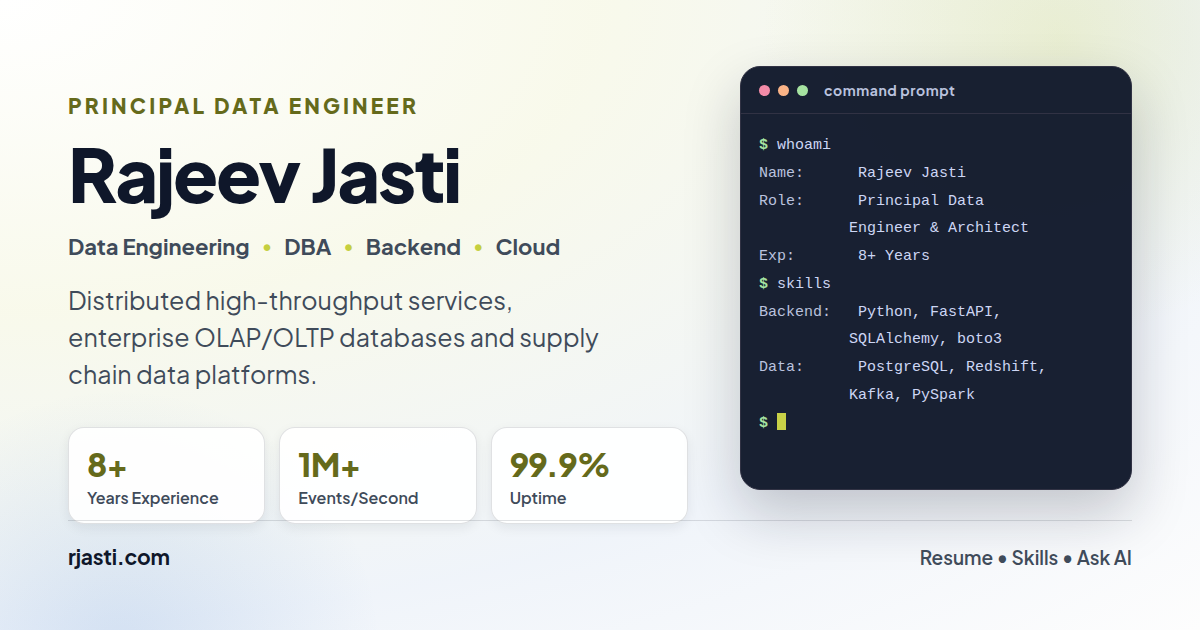
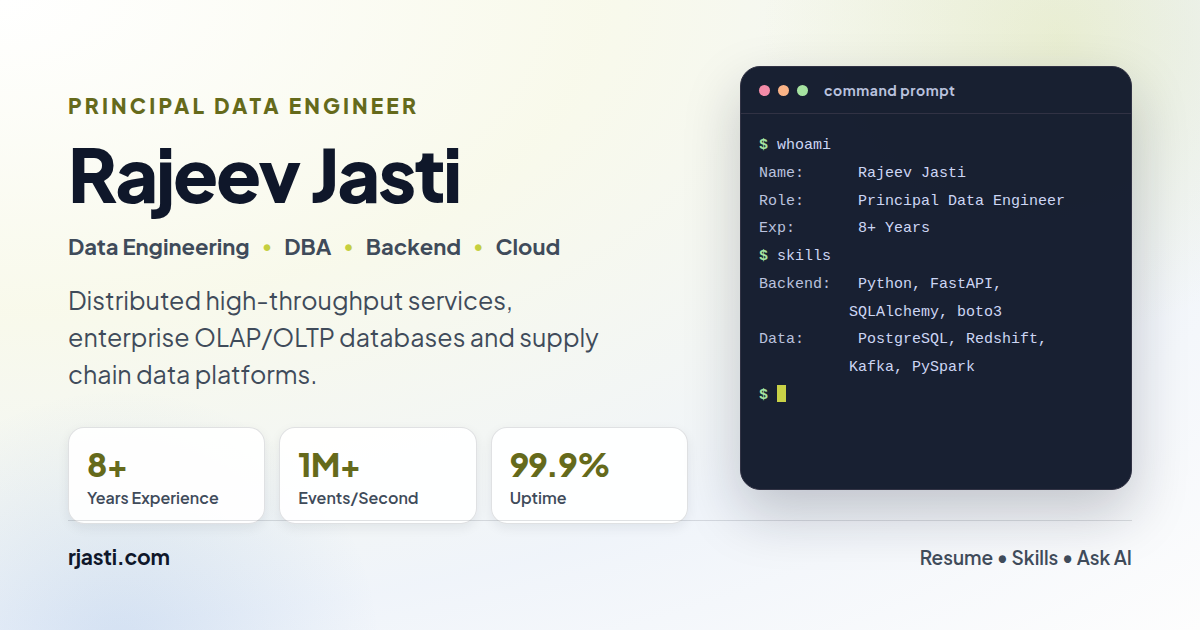
Match the floating chat toggle to the scroll-to-top button (#227)
* Match the floating chat toggle to the scroll-to-top button

The two are the site's only floating round buttons and they occupy
opposite bottom corners at the same time, so a flat citron .chat-toggle-btn
facing .scroll-to-top's citron-to-blue gradient read as two unrelated
controls rather than one pair.

Take the gradient, the hover gradient and the transition property
(`background`, not `background-color` - a gradient is not a colour) from
the .scroll-to-top rule. --on-accent ink is unchanged and stays legible:
11.2:1 on the citron end, 4.9:1 on the blue one, against the 3:1 a glyph
this size needs.

Refresh the styles.css line/token figure in .claude/rules/navigation.md.

Claude-Session: https://claude.ai/code/session_014y7AYGoB7US5WVuVMQVKgd

* Drop "& Architect" from the job title and rewrite the share description

The Open Graph card shared as "Rajeev Jasti | Principal Data Engineer &
Architect". Shorten the title to "Principal Data Engineer" everywhere it
appears as a job title, and replace the og/twitter description.

Title, across every surface that renders it:
  - frontend/index.html    og:title, twitter:title, <title>, meta description,
                           and the AI page's suggestion chip
  - content/resume.json    person.jobTitle, person.description, site.pageName,
                           site.description and the persona summary, which
                           regenerates the JSON-LD @graph and the Bedrock
[…]

diff --git a/frontend/index.html b/frontend/index.html
@@ -10,13 +10,13 @@
   <meta name="author" content="Rajeev Jasti" />
   <meta name="theme-color" content="#C5CF3F" />
   <meta name="description"
-    content="Portfolio of Rajeev Jasti, Principal Data Engineer &amp; Architect specializing in enterprise data platforms, backend services, and AI-enabled web applications." />
+    content="Portfolio of Rajeev Jasti, Principal Data Engineer specializing in enterprise data platforms, backend services, and AI-enabled web applications." />
   <link rel="canonical" href="https://rjasti.com/" />
   <meta property="og:locale" content="en_US" />
   <meta property="og:site_name" content="Rajeev Jasti" />
-  <meta property="og:title" content="Rajeev Jasti | Principal Data Engineer &amp; Architect" />
+  <meta property="og:title" content="Rajeev Jasti | Principal Data Engineer" />
   <meta property="og:description"
-    content="Transforming enterprise systems into scalable data platforms, backend services, and AI-enabled web applications." />
+    content="High-throughput data pipelines, enterprise OLTP/OLAP databases, and the async Python APIs that run on them." />
   <meta property="og:image" content="https://rjasti.com/social-preview.png" />
   <meta property="og:image:secure_url" content="https://rjasti.com/social-preview.png" />
   <meta property="og:image:type" content="image/png" />
@@ -26,12 +26,12 @@
   <meta property="og:url" content="https://rjasti.com/" />
   <meta property="og:type" content="website" />
   <meta name="twitter:card" content="summary_large_image" />
-  <meta name="twitter:title" content="Rajeev Jasti | Principal Data Engineer &amp; Architect" />
+  <meta name="twitter:title" content="Rajeev Jasti | Principal Data Engineer" />
   <meta name="twitter:description"
-    content="Transforming enterprise systems into scalable data platforms, backend services, and AI-enabled web applications." />
+    content="High-throughput data pipelines, enterprise OLTP/OLAP databases, and the async Python APIs that run on them." />
   <meta name="twitter:image" content="https://rjasti.com/social-preview.png" />
   <meta name="twitter:image:alt" content="Rajeev Jasti portfolio preview card" />
-  <title>Rajeev Jasti | Principal Data Engineer &amp; Architect</title>
+  <title>Rajeev Jasti | Principal Data Engineer</title>
   <link rel="apple-touch-icon" sizes="180x180" href="apple-touch-icon.png" />
   <link rel="shortcut icon" href="favicon.ico" />
 
@@ -110,8 +110,8 @@
         "@type": "Person",
         "@id": "https://rjasti.com/#person",
         "name": "Rajeev Jasti",
-        "jobTitle": "Principal Data Engineer & Architect",
-        "description": "Principal Data Engineer & Architect with 8+ years of experience transforming enterprise systems into scalable data platforms, backend services, and AI-enabled web applications.",
+        "jobTitle": "Principal Data Engineer",
+        "description": "Principal Data Engineer with 8+ years of experience building high-throughput data pipelines, enterprise OLTP/OLAP databases, and the async Python APIs that run on them.",
         "url": "https://rjasti.com/",
         "image": {
           "@type": "ImageObject",
@@ -129,7 +129,7 @@
         "@id": "https://rjasti.com/#website",
         "url": "https://rjasti.com/",
         "name": "Rajeev Jasti",
-        "description": "Portfolio of Rajeev Jasti, Principal Data Engineer & Architect specializing in enterprise data platforms, backend services, and AI-enabled web applications.",
+        "description": "Portfolio of Rajeev Jasti, Principal Data Engineer specializing in enterprise data platforms, backend services, and AI-enabled web applications.",
         "publisher": {
           "@id": "https://rjasti.com/#person"
         },
@@ -139,8 +139,8 @@
         "@type": "WebPage",
         "@id": "https://rjasti.com/#webpage",
         "url": "https://rjasti.com/",
-        "name": "Rajeev Jasti | Principal Data Engineer & Architect",
-        "description": "Portfolio of Rajeev Jasti, Principal Data Engineer & Architect specializing in enterprise data platforms, backend services, and AI-enabled web applications.",
+        "name": "Rajeev Jasti | Principal Data Engineer",
+        "description": "Portfolio of Rajeev Jasti, Principal Data Engineer specializing in enterprise data platforms, backend services, and AI-enabled web applications.",
         "isPartOf": {
           "@id": "https://rjasti.com/#website"
         },
@@ -1860,7 +1860,7 @@
 
                 <div class="ai-suggestions" id="ai-suggested-prompts" role="group" aria-labelledby="ai-page-heading">
                   <button type="button" class="ai-suggestion-card"
-                    data-prompt="What does Rajeev do as a Principal Data Engineer and Architect?">
+                    data-prompt="What does Rajeev do as a Principal Data Engineer?">
                     <i class="fas fa-user-tie" aria-hidden="true"></i>
                     <span>What does Rajeev do day to day?</span>
                   </button>

diff --git a/frontend/styles.css b/frontend/styles.css
@@ -7406,12 +7406,19 @@ section {
   width: 60px;
   height: 60px;
   border-radius: 50%;
-  background: var(--accent-fill);
+  /* Same fill as .scroll-to-top, deliberately. The two are the site's only
+     floating round buttons and they sit in opposite bottom corners at the same
+     time, so a flat citron disc facing a citron-to-blue one read as two
+     unrelated controls. Gradient, hover gradient and ink all come from that
+     rule; `background` rather than `background-color` in the transition for the
+     same reason it does there - a gradient is not a colour. */
+  background: linear-gradient(135deg, var(--accent-fill), var(--secondary-fill));
   /* Was `#fff !important`. The note above --on-accent in the token block
      measures white on citron at 1.7:1 and says #fff failed AA sitewide before
      that token existed; this button was a surviving instance of it. Dark ink
-     is 11.2:1 on the same fill in both themes, and the robot glyph here now
-     matches the one in .chat-avatar, which already took --on-accent. */
+     is 11.2:1 on the citron end and 4.9:1 on the blue one, clearing the 3:1
+     that a glyph this size needs, and the robot here matches the one in
+     .chat-avatar, which already took --on-accent. */
   color: var(--on-accent);
   border: none;
   font-size: var(--text-h3);
@@ -7419,7 +7426,7 @@ section {
   box-shadow: var(--glow-md);
   transition:
     transform var(--motion-base) var(--ease-standard),
-    background-color var(--motion-base) var(--ease-standard),
+    background var(--motion-base) var(--ease-standard),
     box-shadow var(--motion-base) var(--ease-standard);
   display: flex;
   align-items: center;
@@ -7428,7 +7435,7 @@ section {
 
 .chat-toggle-btn:hover {
   transform: scale(1.1);
-  background: var(--accent-hover);
+  background: linear-gradient(135deg, var(--accent-hover), color-mix(in srgb, var(--secondary-fill) 90%, #000));
   color: var(--on-accent);
   box-shadow: var(--glow-md);
 }

diff --git a/scripts/social-previews/social-preview.html b/scripts/social-previews/social-preview.html
@@ -210,8 +210,7 @@
         </div>
         <div class="terminal-body"><span class="p">$</span> whoami
 <span class="k">Name:</span>      Rajeev Jasti
-<span class="k">Role:</span>      Principal Data
-          Engineer &amp; Architect
+<span class="k">Role:</span>      Principal Data Engineer
 <span class="k">Exp:</span>       8+ Years
 <span class="p">$</span> skills
 <span class="k">Backend:</span>   Python, FastAPI,

diff --git a/frontend/js/terminal/registry.js b/frontend/js/terminal/registry.js
@@ -85,7 +85,7 @@ export const commands = [
     run: () =>
       out.list([
         ["Name:", "Rajeev Jasti"],
-        ["Role:", "Principal Data Engineer & Architect"],
+        ["Role:", "Principal Data Engineer"],
         ["Experience:", "8+ Years (Feb 2018 — Present at Nicholas and Company)"],
         ["Location:", "Salt Lake City, UT (Remote)"],
         ["Contact:", "inboxtorj@gmail.com"],

diff --git a/server/config/resume_context.py b/server/config/resume_context.py
@@ -9,7 +9,7 @@ never contained, and predated the arcade, the predictors and the whole auth tier
 """
 
 KEY_INFORMATION = """\
-- Current Role: Principal Data Engineer & Architect at Nicholas and Company (Nov 2022 – Present, Salt Lake City & Remote)
+- Current Role: Principal Data Engineer at Nicholas and Company (Nov 2022 – Present, Salt Lake City & Remote)
 - Previous Role: Data Engineer at Nicholas and Company (Feb 2018 – Oct 2022)
 - Specialization: Enterprise Data Engineering & OLAP modeling, OLTP Database Engines, Real-time Streaming, Cloud Migrations, Full-Stack & Generative AI Web Applications
 - Backend Stack: Python 3.10+, FastAPI, PostgreSQL, SQLAlchemy ORM (asyncpg), Alembic, Amazon Bedrock, Lambda, API Gateway, Boomi, Docker, Kafka, microservices

diff --git a/.claude/rules/navigation.md b/.claude/rules/navigation.md
@@ -16,7 +16,7 @@ these files the number here has to move with it.
 
 | File | Lines | ~Tokens | How to navigate instead |
 | :--- | ---: | ---: | :--- |
-| `frontend/styles.css` | 12,498 | ~96,000 | `grep -n '#region' frontend/styles.css` returns a 27-entry map with live line numbers (~500 tokens). Then `sed -n 'START,ENDp'`. |
+| `frontend/styles.css` | 12,505 | ~96,500 | `grep -n '#region' frontend/styles.css` returns a 27-entry map with live line numbers (~500 tokens). Then `sed -n 'START,ENDp'`. |
 | `package-lock.json` | 3,453 | ~32,500 | Never read. `package.json` lists every direct dep in 25 lines. |
 | `frontend/index.html` | 2,489 | ~38,500 | `grep -n '<section id=' frontend/index.html` for the 8-section map. |
 | `frontend/js/chat.js` | 2,317 | ~25,000 | One large `initChat()` from line 57; almost nothing is top-level. Map it with `grep -nE '^\s{2,6}(async )?function \w+' frontend/js/chat.js` (52 hits). |
